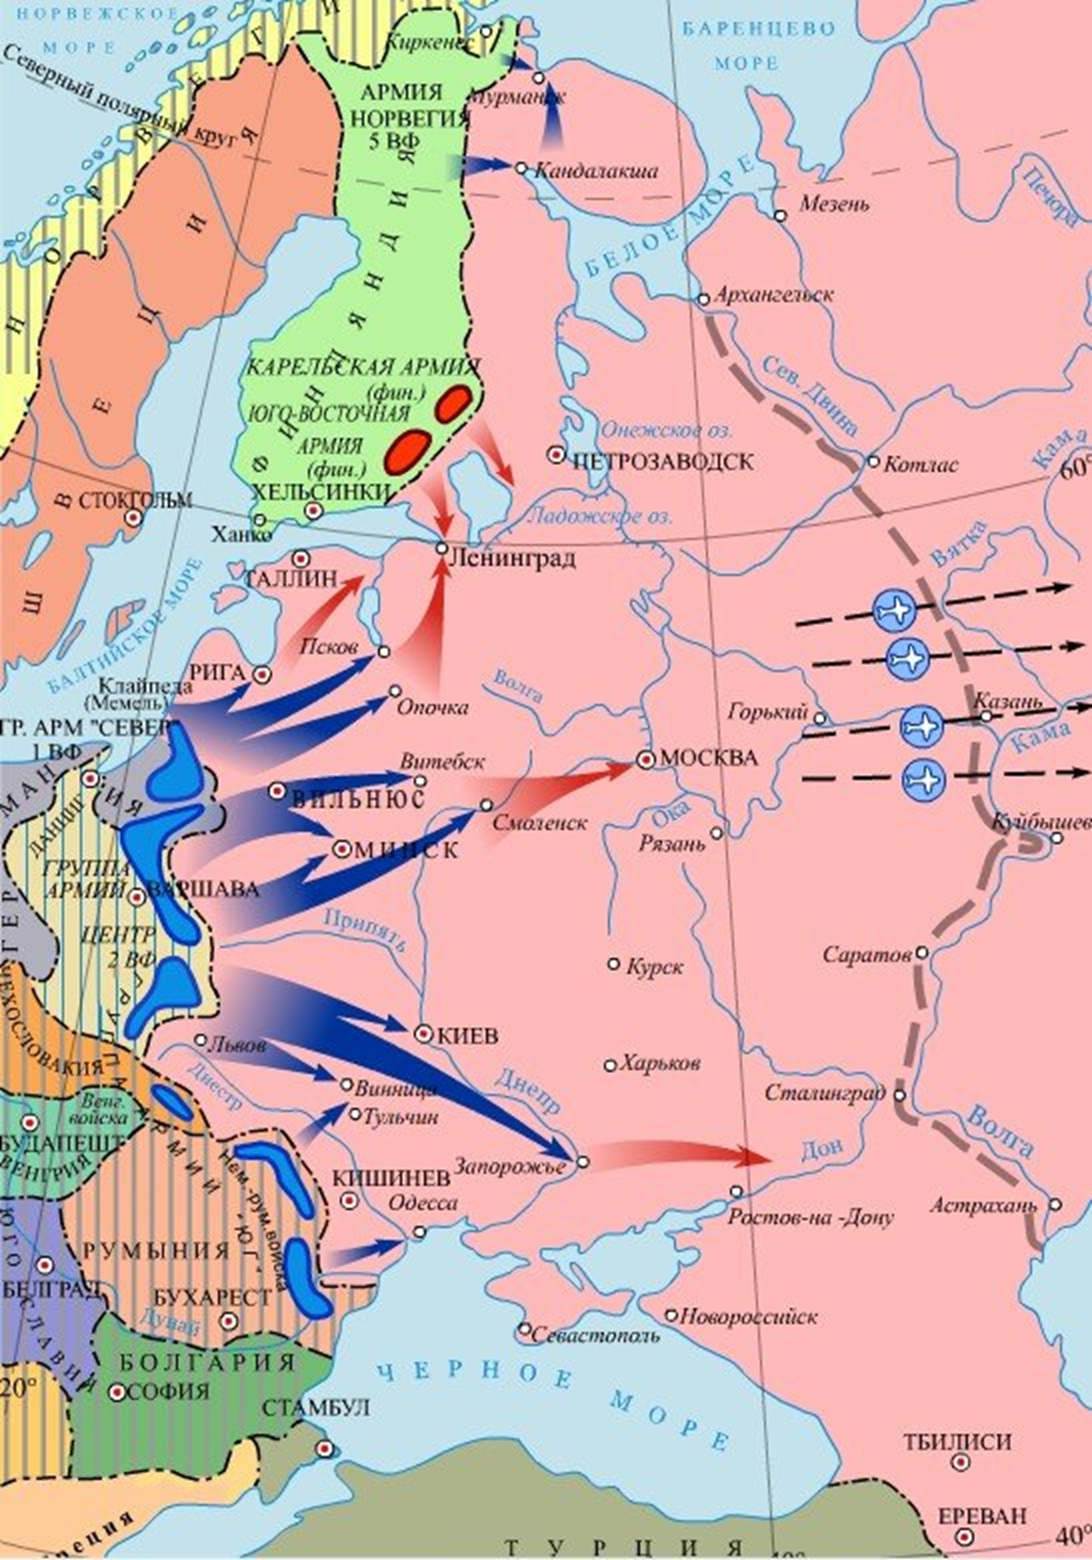
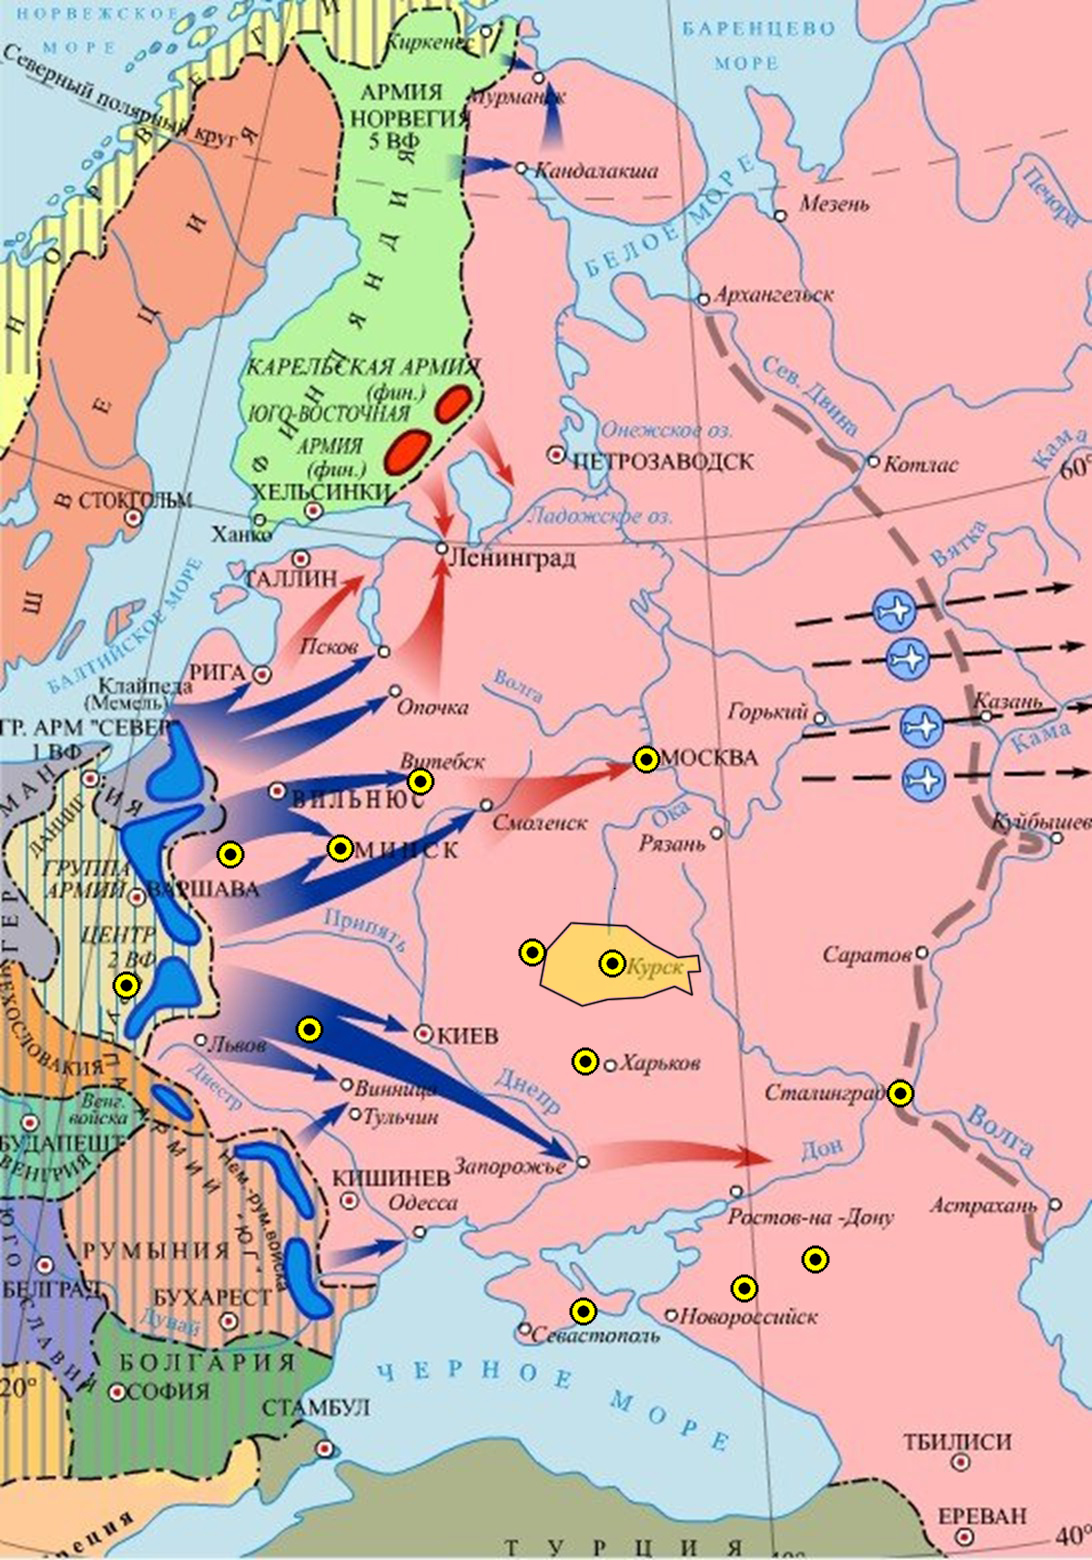
Добавлена карта мест подвигов

diff --git a/index.html b/index.html
@@ -5,36 +5,45 @@
 	<meta name="viewport" content="width=device-width, initial-scale=1">
 	<meta name="generator" content="RocketCake">
 	<title></title>
-	<link rel="stylesheet" type="text/css" href="index_html.css?h=d9c7922d">
+	<link rel="stylesheet" type="text/css" href="index_html.css?h=f30653e8">
 </head>
 <body>
 <div class="textstyle1">
 <div id="container_3e575098"><div id="container_3e575098_padding" ><div class="textstyle2"><div id="container_4f41ecfa"><div id="container_4f41ecfa_padding" ><div class="textstyle2"><span class="textstyle3">&#1044;&#1077;&#1090;&#1080; &#1074;&#1086;&#1081;&#1085;&#1099;</span><span class="textstyle4"><br/></span><span class="textstyle5">&#1048;&#1089;&#1090;&#1086;&#1088;&#1080;&#1103; &#1102;&#1085;&#1099;&#1093; &#1075;&#1077;&#1088;&#1086;&#1077;&#1074;<br/><br/></span></div>
 </div></div></div>
-<div style="clear:both"></div></div></div><span class="textstyle6"><br/></span><div id="container_1f421e47"><div id="container_1f421e47_padding" ><div class="textstyle7"><span class="textstyle6"><br/></span></div>
-<div class="textstyle2"><table id="table_11a0051" cellpadding="3" cellspacing="1" >	<tr>
-		<td width="50%" height="1490px" style="vertical-align: top; overflow:hidden; ">  <div id="cell_63b62da2">
-    <div class="textstyle1">
-<img src="rc_images/mapussr.jpg" width="1092" height="1560" id="img_2386f5af" alt="" title="" />      </div>
-    </div>
-		</td>
-		<td width="50%" height="1490px" style="vertical-align: top; overflow:hidden; ">  <div id="cell_7a45e9aa">
-    <div class="textstyle7">
-<div id="container_74cc30ce"><div id="container_74cc30ce_padding" ><div class="textstyle8">      <span class="textstyle9">&#171;&#1052;&#1099; &#1085;&#1080;&#1082;&#1086;&#1075;&#1076;&#1072; &#1085;&#1077; &#1087;&#1086;&#1073;&#1077;&#1076;&#1080;&#1084; &#1088;&#1091;&#1089;&#1089;&#1082;&#1080;&#1093;, &#1087;&#1086;&#1090;&#1086;&#1084;&#1091; &#1095;&#1090;&#1086; &#1076;&#1072;&#1078;&#1077; &#1076;&#1077;&#1090;&#1080; &#1091; &#1085;&#1080;&#1093; &#1089;&#1088;&#1072;&#1078;&#1072;&#1102;&#1090;&#1089;&#1103; &#1082;&#1072;&#1082; &#1075;&#1077;&#1088;&#1086;&#1080;&#187;</span>
+<div style="clear:both"></div></div></div><span class="textstyle6"><br/></span><div id="container_1f421e47"><div id="container_1f421e47_padding" ><div class="textstyle7"><div id="container_74cc30ce"><div id="container_74cc30ce_padding" ><div class="textstyle8">  <span class="textstyle9">&#171;&#1052;&#1099; &#1085;&#1080;&#1082;&#1086;&#1075;&#1076;&#1072; &#1085;&#1077; &#1087;&#1086;&#1073;&#1077;&#1076;&#1080;&#1084; &#1088;&#1091;&#1089;&#1089;&#1082;&#1080;&#1093;, &#1087;&#1086;&#1090;&#1086;&#1084;&#1091; &#1095;&#1090;&#1086; &#1076;&#1072;&#1078;&#1077; &#1076;&#1077;&#1090;&#1080; &#1091; &#1085;&#1080;&#1093; &#1089;&#1088;&#1072;&#1078;&#1072;&#1102;&#1090;&#1089;&#1103; &#1082;&#1072;&#1082; &#1075;&#1077;&#1088;&#1086;&#1080;&#187;</span>
 </div>
-</div></div>      </div>
-    <div class="textstyle2">
-<span class="textstyle6"><br/></span>      </div>
-    <div class="textstyle7">
-<div id="container_3b77e554"><div id="container_3b77e554_padding" ><div class="textstyle7">      <span class="textstyle10">&#1047;&#1072;&#1087;&#1080;&#1089;&#1100; &#1080;&#1079; &#1076;&#1085;&#1077;&#1074;&#1085;&#1080;&#1082;&#1072; &#1085;&#1077;&#1084;&#1077;&#1094;&#1082;&#1086;&#1075;&#1086; &#1089;&#1086;&#1083;&#1076;&#1072;&#1090;&#1072;<br/></span>
+</div></div><span class="textstyle6"><br/></span><div id="container_3b77e554"><div id="container_3b77e554_padding" ><div class="textstyle7">  <span class="textstyle10">&#1047;&#1072;&#1087;&#1080;&#1089;&#1100; &#1080;&#1079; &#1076;&#1085;&#1077;&#1074;&#1085;&#1080;&#1082;&#1072; &#1085;&#1077;&#1084;&#1077;&#1094;&#1082;&#1086;&#1075;&#1086; &#1089;&#1086;&#1083;&#1076;&#1072;&#1090;&#1072;<br/></span>
 </div>
-</div></div>      </div>
-    <div class="textstyle2">
-<span class="textstyle6"><br/></span><div id="container_4cfbf672"><div id="container_4cfbf672_padding" ><div class="textstyle8">      <span class="textstyle11">&#1042;&#1086;&#1081;&#1085;&#1072;... &#1053;&#1077;&#1090; &#1085;&#1080;&#1095;&#1077;&#1075;&#1086; &#1073;&#1086;&#1083;&#1077;&#1077; &#1091;&#1078;&#1072;&#1089;&#1085;&#1086;&#1075;&#1086; &#1080; &#1073;&#1086;&#1075;&#1086;&#1087;&#1088;&#1086;&#1090;&#1080;&#1074;&#1085;&#1086;&#1075;&#1086; &#1074;&#1086; &#1074;&#1089;&#1077;&#1084; &#1084;&#1080;&#1088;&#1077;, &#1095;&#1077;&#1084; &#1074;&#1086;&#1081;&#1085;&#1072; - &#1078;&#1077;&#1089;&#1090;&#1086;&#1082;&#1086;&#1077;, &#1073;&#1077;&#1089;&#1095;&#1077;&#1083;&#1086;&#1074;&#1077;&#1095;&#1085;&#1086;&#1077; &#1103;&#1074;&#1083;&#1077;&#1085;&#1080;&#1077;, &#1082;&#1086;&#1090;&#1086;&#1088;&#1086;&#1077; &#1085;&#1077; &#1085;&#1077;&#1089;&#1077;&#1090; &#1085;&#1072;&#1088;&#1086;&#1076;&#1072;&#1084; &#1080; &#1075;&#1086;&#1089;&#1091;&#1076;&#1072;&#1088;&#1089;&#1090;&#1074;&#1072;&#1084; &#1085;&#1080;&#1082;&#1072;&#1082;&#1086;&#1081; &#1087;&#1086;&#1083;&#1100;&#1079;&#1099;, &#1072; &#1090;&#1086;&#1083;&#1100;&#1082;&#1086; &#1087;&#1088;&#1080;&#1074;&#1086;&#1076;&#1080;&#1090; &#1082; &#1086;&#1075;&#1088;&#1086;&#1084;&#1085;&#1086;&#1084;&#1091; &#1095;&#1080;&#1089;&#1083;&#1091; &#1078;&#1077;&#1088;&#1090;&#1074;. &#1058;&#1099; &#1087;&#1086;&#1085;&#1080;&#1084;&#1072;&#1077;&#1096;&#1100; &#1101;&#1090;&#1086; &#1086;&#1089;&#1086;&#1073;&#1077;&#1085;&#1085;&#1086; &#1089;&#1080;&#1083;&#1100;&#1085;&#1086;, &#1082;&#1086;&#1075;&#1076;&#1072; &#1085;&#1072;&#1095;&#1080;&#1085;&#1072;&#1077;&#1096;&#1100; &#1074;&#1089;&#1087;&#1086;&#1084;&#1080;&#1085;&#1072;&#1090;&#1100; &#1090;&#1072;&#1082; &#1085;&#1072;&#1079;&#1099;&#1074;&#1072;&#1077;&#1084;&#1099;&#1093; &quot;&#1076;&#1077;&#1090;&#1077;&#1081; &#1074;&#1086;&#1081;&#1085;&#1099; &quot; -- &#1086;&#1073;&#1099;&#1095;&#1085;&#1099;&#1093; &#1084;&#1072;&#1083;&#1100;&#1095;&#1080;&#1082;&#1086;&#1074; &#1080; &#1076;&#1077;&#1074;&#1086;&#1095;&#1077;&#1082; &#1089;&#1086;&#1088;&#1086;&#1082;&#1086;&#1074;&#1099;&#1093;-&#1087;&#1103;&#1090;&#1080;&#1076;&#1077;&#1089;&#1103;&#1090;&#1099;&#1093; &#1075;&#1086;&#1076;&#1086;&#1074; &#1087;&#1088;&#1086;&#1096;&#1083;&#1086;&#1075;&#1086; &#1074;&#1077;&#1082;&#1072;, &#1082;&#1086;&#1090;&#1086;&#1088;&#1099;&#1084; &#1087;&#1088;&#1080;&#1096;&#1083;&#1086;&#1089;&#1100; &#1089;&#1090;&#1072;&#1090;&#1100; &#1079;&#1072;&#1097;&#1080;&#1090;&#1085;&#1080;&#1082;&#1072;&#1084;&#1080; &#1056;&#1086;&#1076;&#1080;&#1085;&#1099;. &#1069;&#1090;&#1080; &#1093;&#1088;&#1072;&#1073;&#1099;&#1088;&#1077; &#1080; &#1084;&#1091;&#1078;&#1077;&#1089;&#1090;&#1074;&#1077;&#1085;&#1085;&#1099;&#1077; &#1088;&#1077;&#1073;&#1103;&#1090;&#1072; &#1089;&#1086;&#1074;&#1077;&#1088;&#1096;&#1072;&#1083;&#1080; &#1090;&#1072;&#1082;&#1080;&#1077; &#1087;&#1086;&#1076;&#1074;&#1080;&#1075;&#1080;, &#1084;&#1091;&#1078;&#1077;&#1089;&#1090;&#1074;&#1072; &#1085;&#1072; &#1082;&#1086;&#1090;&#1086;&#1088;&#1099;&#1093; &#1085;&#1077; &#1093;&#1074;&#1072;&#1090;&#1080;&#1083;&#1086; &#1073;&#1099; &#1086;&#1090;&#1074;&#1072;&#1075;&#1080; &#1091; &#1084;&#1085;&#1086;&#1075;&#1080;&#1093; &#1074;&#1079;&#1088;&#1086;&#1089;&#1083;&#1099;&#1093; &#1084;&#1091;&#1078;&#1095;&#1080;&#1085; &#1080; &#1078;&#1077;&#1085;&#1097;&#1080;&#1085;. &#1057;&#1072;&#1084; &#1092;&#1072;&#1082;&#1090;, &#1095;&#1090;&#1086; &#1084;&#1072;&#1083;&#1077;&#1085;&#1100;&#1082;&#1080;&#1077; &#1076;&#1077;&#1090;&#1080; &#1076;&#1086;&#1073;&#1088;&#1086;&#1074;&#1086;&#1083;&#1100;&#1085;&#1086; &#1089;&#1088;&#1072;&#1078;&#1072;&#1083;&#1080;&#1089;&#1100; &#1073;&#1086;&#1082; &#1086; &#1073;&#1086;&#1082; &#1089; &#1087;&#1072;&#1088;&#1090;&#1080;&#1079;&#1072;&#1085;&#1072;&#1084;&#1080; &#1080; &#1073;&#1086;&#1081;&#1094;&#1072;&#1084;&#1080; &#1050;&#1088;&#1072;&#1089;&#1085;&#1086;&#1081; &#1040;&#1088;&#1084;&#1080;&#1080; &#1091;&#1078;&#1077; &#1079;&#1072;&#1089;&#1083;&#1091;&#1078;&#1080;&#1074;&#1072;&#1077;&#1090; &#1091;&#1074;&#1072;&#1078;&#1077;&#1085;&#1080;&#1103; &#1082; &#1090;&#1077;&#1084; &#1073;&#1077;&#1089;&#1089;&#1090;&#1088;&#1072;&#1096;&#1085;&#1099;&#1093; &#1102;&#1085;&#1099;&#1084; &#1073;&#1086;&#1081;&#1094;&#1072;&#1084;, &#1095;&#1090;&#1086; &#1078;&#1077;&#1088;&#1090;&#1074;&#1086;&#1074;&#1072;&#1083;&#1080; &#1079;&#1076;&#1086;&#1088;&#1086;&#1074;&#1100;&#1077;&#1084; &#1080; &#1089;&#1072;&#1084;&#1086;&#1081; &#1078;&#1080;&#1079;&#1085;&#1100;&#1102; &#1088;&#1072;&#1076;&#1080; &#1074;&#1077;&#1083;&#1080;&#1082;&#1086;&#1081; &#1094;&#1077;&#1083;&#1080; - &#1073;&#1086;&#1088;&#1100;&#1073;&#1099; &#1089; &#1092;&#1072;&#1096;&#1080;&#1079;&#1084;&#1086;&#1084; &#1080; &#1086;&#1089;&#1074;&#1086;&#1073;&#1086;&#1078;&#1076;&#1077;&#1085;&#1080;&#1103; &#1089;&#1074;&#1086;&#1077;&#1081; &#1088;&#1086;&#1076;&#1085;&#1086;&#1081; &#1079;&#1077;&#1084;&#1083;&#1080;.<br/></span>
+</div></div><span class="textstyle6"><br/></span></div>
+<div class="textstyle2"><div id="container_4cfbf672"><div id="container_4cfbf672_padding" ><div class="textstyle8">  <span class="textstyle11">&#1042;&#1086;&#1081;&#1085;&#1072;... &#1053;&#1077;&#1090; &#1085;&#1080;&#1095;&#1077;&#1075;&#1086; &#1073;&#1086;&#1083;&#1077;&#1077; &#1091;&#1078;&#1072;&#1089;&#1085;&#1086;&#1075;&#1086; &#1080; &#1073;&#1086;&#1075;&#1086;&#1087;&#1088;&#1086;&#1090;&#1080;&#1074;&#1085;&#1086;&#1075;&#1086; &#1074;&#1086; &#1074;&#1089;&#1077;&#1084; &#1084;&#1080;&#1088;&#1077;, &#1095;&#1077;&#1084; &#1074;&#1086;&#1081;&#1085;&#1072; - &#1078;&#1077;&#1089;&#1090;&#1086;&#1082;&#1086;&#1077;, &#1073;&#1077;&#1089;&#1095;&#1077;&#1083;&#1086;&#1074;&#1077;&#1095;&#1085;&#1086;&#1077; &#1103;&#1074;&#1083;&#1077;&#1085;&#1080;&#1077;, &#1082;&#1086;&#1090;&#1086;&#1088;&#1086;&#1077; &#1085;&#1077; &#1085;&#1077;&#1089;&#1077;&#1090; &#1085;&#1072;&#1088;&#1086;&#1076;&#1072;&#1084; &#1080; &#1075;&#1086;&#1089;&#1091;&#1076;&#1072;&#1088;&#1089;&#1090;&#1074;&#1072;&#1084; &#1085;&#1080;&#1082;&#1072;&#1082;&#1086;&#1081; &#1087;&#1086;&#1083;&#1100;&#1079;&#1099;, &#1072; &#1090;&#1086;&#1083;&#1100;&#1082;&#1086; &#1087;&#1088;&#1080;&#1074;&#1086;&#1076;&#1080;&#1090; &#1082; &#1086;&#1075;&#1088;&#1086;&#1084;&#1085;&#1086;&#1084;&#1091; &#1095;&#1080;&#1089;&#1083;&#1091; &#1078;&#1077;&#1088;&#1090;&#1074;. &#1058;&#1099; &#1087;&#1086;&#1085;&#1080;&#1084;&#1072;&#1077;&#1096;&#1100; &#1101;&#1090;&#1086; &#1086;&#1089;&#1086;&#1073;&#1077;&#1085;&#1085;&#1086; &#1089;&#1080;&#1083;&#1100;&#1085;&#1086;, &#1082;&#1086;&#1075;&#1076;&#1072; &#1085;&#1072;&#1095;&#1080;&#1085;&#1072;&#1077;&#1096;&#1100; &#1074;&#1089;&#1087;&#1086;&#1084;&#1080;&#1085;&#1072;&#1090;&#1100; &#1090;&#1072;&#1082; &#1085;&#1072;&#1079;&#1099;&#1074;&#1072;&#1077;&#1084;&#1099;&#1093; &quot;&#1076;&#1077;&#1090;&#1077;&#1081; &#1074;&#1086;&#1081;&#1085;&#1099; &quot; -- &#1086;&#1073;&#1099;&#1095;&#1085;&#1099;&#1093; &#1084;&#1072;&#1083;&#1100;&#1095;&#1080;&#1082;&#1086;&#1074; &#1080; &#1076;&#1077;&#1074;&#1086;&#1095;&#1077;&#1082; &#1089;&#1086;&#1088;&#1086;&#1082;&#1086;&#1074;&#1099;&#1093;-&#1087;&#1103;&#1090;&#1080;&#1076;&#1077;&#1089;&#1103;&#1090;&#1099;&#1093; &#1075;&#1086;&#1076;&#1086;&#1074; &#1087;&#1088;&#1086;&#1096;&#1083;&#1086;&#1075;&#1086; &#1074;&#1077;&#1082;&#1072;, &#1082;&#1086;&#1090;&#1086;&#1088;&#1099;&#1084; &#1087;&#1088;&#1080;&#1096;&#1083;&#1086;&#1089;&#1100; &#1089;&#1090;&#1072;&#1090;&#1100; &#1079;&#1072;&#1097;&#1080;&#1090;&#1085;&#1080;&#1082;&#1072;&#1084;&#1080; &#1056;&#1086;&#1076;&#1080;&#1085;&#1099;. &#1069;&#1090;&#1080; &#1093;&#1088;&#1072;&#1073;&#1099;&#1088;&#1077; &#1080; &#1084;&#1091;&#1078;&#1077;&#1089;&#1090;&#1074;&#1077;&#1085;&#1085;&#1099;&#1077; &#1088;&#1077;&#1073;&#1103;&#1090;&#1072; &#1089;&#1086;&#1074;&#1077;&#1088;&#1096;&#1072;&#1083;&#1080; &#1090;&#1072;&#1082;&#1080;&#1077; &#1087;&#1086;&#1076;&#1074;&#1080;&#1075;&#1080;, &#1084;&#1091;&#1078;&#1077;&#1089;&#1090;&#1074;&#1072; &#1085;&#1072; &#1082;&#1086;&#1090;&#1086;&#1088;&#1099;&#1093; &#1085;&#1077; &#1093;&#1074;&#1072;&#1090;&#1080;&#1083;&#1086; &#1073;&#1099; &#1086;&#1090;&#1074;&#1072;&#1075;&#1080; &#1091; &#1084;&#1085;&#1086;&#1075;&#1080;&#1093; &#1074;&#1079;&#1088;&#1086;&#1089;&#1083;&#1099;&#1093; &#1084;&#1091;&#1078;&#1095;&#1080;&#1085; &#1080; &#1078;&#1077;&#1085;&#1097;&#1080;&#1085;. &#1057;&#1072;&#1084; &#1092;&#1072;&#1082;&#1090;, &#1095;&#1090;&#1086; &#1084;&#1072;&#1083;&#1077;&#1085;&#1100;&#1082;&#1080;&#1077; &#1076;&#1077;&#1090;&#1080; &#1076;&#1086;&#1073;&#1088;&#1086;&#1074;&#1086;&#1083;&#1100;&#1085;&#1086; &#1089;&#1088;&#1072;&#1078;&#1072;&#1083;&#1080;&#1089;&#1100; &#1073;&#1086;&#1082; &#1086; &#1073;&#1086;&#1082; &#1089; &#1087;&#1072;&#1088;&#1090;&#1080;&#1079;&#1072;&#1085;&#1072;&#1084;&#1080; &#1080; &#1073;&#1086;&#1081;&#1094;&#1072;&#1084;&#1080; &#1050;&#1088;&#1072;&#1089;&#1085;&#1086;&#1081; &#1040;&#1088;&#1084;&#1080;&#1080; &#1091;&#1078;&#1077; &#1079;&#1072;&#1089;&#1083;&#1091;&#1078;&#1080;&#1074;&#1072;&#1077;&#1090; &#1091;&#1074;&#1072;&#1078;&#1077;&#1085;&#1080;&#1103; &#1082; &#1090;&#1077;&#1084; &#1073;&#1077;&#1089;&#1089;&#1090;&#1088;&#1072;&#1096;&#1085;&#1099;&#1093; &#1102;&#1085;&#1099;&#1084; &#1073;&#1086;&#1081;&#1094;&#1072;&#1084;, &#1095;&#1090;&#1086; &#1078;&#1077;&#1088;&#1090;&#1074;&#1086;&#1074;&#1072;&#1083;&#1080; &#1079;&#1076;&#1086;&#1088;&#1086;&#1074;&#1100;&#1077;&#1084; &#1080; &#1089;&#1072;&#1084;&#1086;&#1081; &#1078;&#1080;&#1079;&#1085;&#1100;&#1102; &#1088;&#1072;&#1076;&#1080; &#1074;&#1077;&#1083;&#1080;&#1082;&#1086;&#1081; &#1094;&#1077;&#1083;&#1080; - &#1073;&#1086;&#1088;&#1100;&#1073;&#1099; &#1089; &#1092;&#1072;&#1096;&#1080;&#1079;&#1084;&#1086;&#1084; &#1080; &#1086;&#1089;&#1074;&#1086;&#1073;&#1086;&#1078;&#1076;&#1077;&#1085;&#1080;&#1103; &#1089;&#1074;&#1086;&#1077;&#1081; &#1088;&#1086;&#1076;&#1085;&#1086;&#1081; &#1079;&#1077;&#1084;&#1083;&#1080;.<br/></span>
 </div>
-</div></div><span class="textstyle6"><br/><br/></span><div id="container_5616e585"><div id="container_5616e585_padding" ><div class="textstyle8">      <span class="textstyle11">&#1055;&#1086;&#1084;&#1085;&#1080;&#1090;&#1077;, &#1083;&#1102;&#1076;&#1080;. &#1055;&#1086;&#1084;&#1085;&#1080;&#1090;&#1077; &#1085;&#1072;&#1089;&#1083;&#1077;&#1076;&#1080;&#1077; &#1089;&#1074;&#1086;&#1080;&#1093; &#1075;&#1077;&#1088;&#1086;&#1077;&#1074;!<br/></span>
+</div></div></div>
+<div class="textstyle7"><span class="textstyle6"><br/></span></div>
+<div class="textstyle2"><div id="container_5616e585"><div id="container_5616e585_padding" ><div class="textstyle8">  <span class="textstyle11">&#1055;&#1086;&#1084;&#1085;&#1080;&#1090;&#1077;, &#1083;&#1102;&#1076;&#1080;. &#1055;&#1086;&#1084;&#1085;&#1080;&#1090;&#1077; &#1085;&#1072;&#1089;&#1083;&#1077;&#1076;&#1080;&#1077; &#1089;&#1074;&#1086;&#1080;&#1093; &#1075;&#1077;&#1088;&#1086;&#1077;&#1074;!<br/></span>
 </div>
-</div></div><span class="textstyle6"><br/><br/></span><div id="container_316d5227"><div id="container_316d5227_padding" ><div class="textstyle2"><ul id="ul_5bd5f3a7" class="ulstyle1">
+</div></div></div>
+<div class="textstyle7"><span class="textstyle6"><br/></span></div>
+<div class="textstyle1">
+	<img src="rc_images/mapussr.jpg" width="1092" height="1560" id="img_2386f5af" alt="" title="" usemap="#image-map"/>
+	<map name="image-map">
+		<area alt="Надежда Богданова (г. Витебск)" title="Надежда Богданова (г. Витебск)" href="page-1.html" coords="421,781,13" shape="circle">
+		<area alt="Джемми Горячкина (станица Новоалександровская)" title="Джемми Горячкина (станица Новоалександровская)" href="page-2.html" coords="816,1259,13" shape="circle">
+		<area alt="Сергей Алешков (г. Сталинград)" title="Сергей Алешков (г. Сталинград)" href="page-3.html" coords="900,1093,13" shape="circle">
+		<area alt="Павлик Андреев (г. Москва)" title="Павлик Андреев (г. Москва)" href="page-4.html" coords="647,759,13" shape="circle">
+		<area alt="Миша Гаврилов (г. Гродно)" title="Миша Гаврилов (г. Гродно)" href="page-5.html" coords="230,854,14" shape="circle">
+		<area alt="Ваня Васильченко (село Александровка)" title="Ваня Васильченко (село Александровка)" href="page-6.html" coords="586,1061,13" shape="circle">
+		<area alt="Костя Янин (село Чуйковка)" title="Костя Янин (село Чуйковка)" href="page-7.html" coords="533,952,13" shape="circle">
+		<area alt="Валя Котик (г. Изяслав)" title="Валя Котик (г. Изяслав)" href="page-8.html" coords="310,1029,14" shape="circle">
+		<area alt="Люся Герасименко (г. Минск)" title="Люся Герасименко (г. Минск)" href="page-9.html" coords="341,848,14" shape="circle">
+		<area alt="Аня Обухова (село в Курской области)" title="Аня Обухова (село в Курской области)" href="page-10.html" coords="542,984,548,946,570,923,628,925,656,946,677,956,698,955,700,971,688,972,692,994,675,987,645,998,609,1000,582,1006" shape="poly">
+		<area alt="Абрам Пинкензон (станица Усть-Лабинская)" title="Абрам Пинкензон (станица Усть-Лабинская)" href="page-11.html" coords="745,1289,12" shape="circle">
+		<area alt="Виктор Коробков (г. Феодосия)" title="Виктор Коробков (г. Феодосия)" href="page-12.html" coords="583,1311,13" shape="circle">
+		<area alt="Василий Курка (г. Климонтув, Польша)" title="Василий Курка (г. Климонтув, Польша)" href="page-13.html" coords="127,986,13" shape="circle">
+	</map>
+</div>
+<div class="textstyle7"><span class="textstyle6"><br/></span></div>
+<div class="textstyle2"><div id="container_316d5227"><div id="container_316d5227_padding" ><div class="textstyle2"><ul id="ul_5bd5f3a7" class="ulstyle1">
 <li><span class="textstyle12"><a href="page-1.html">&#1053;&#1072;&#1076;&#1077;&#1078;&#1076;&#1072; &#1041;&#1086;&#1075;&#1076;&#1072;&#1085;&#1086;&#1074;&#1072;</a></span><span class="textstyle12"></span></li>
 <li><span class="textstyle12"><a href="page-2.html">&#1044;&#1078;&#1077;&#1084;&#1084;&#1080; &#1043;&#1086;&#1088;&#1103;&#1095;&#1082;&#1080;&#1085;&#1072;</a></span><span class="textstyle12"></span></li>
 <li><span class="textstyle12"><a href="page-3.html">&#1057;&#1077;&#1088;&#1075;&#1077;&#1081; &#1040;&#1083;&#1077;&#1096;&#1082;&#1086;&#1074;</a></span><span class="textstyle12"></span></li>
@@ -50,11 +59,7 @@
 <li><span class="textstyle12"><a href="page-13.html">&#1042;&#1072;&#1089;&#1080;&#1083;&#1080;&#1081; &#1050;&#1091;&#1088;&#1082;&#1072;</a></span></div>
 </li>
 </ul>
-</div></div><span class="textstyle6"><br/><br/></span>      </div>
-    </div>
-		</td>
-	</tr>
-</table><span class="textstyle6"><br/><br/></span></div>
-<div style="clear:both"></div></div></div><span class="textstyle6"><br/></span><span class="textstyle6"><br/></span>  </div>
+</div></div></div>
+<div style="clear:both"></div></div></div><span class="textstyle6"><br/><br/></span>  </div>
 </body>
 </html>

diff --git a/index_html.css b/index_html.css
@@ -2,8 +2,6 @@ a { color:#5D5D9E; }
 a:visited { color:#5D5D9E; } 
 a:active { color:#5C615E; } 
 a:hover { color:#B2B3B4; } 
-#table_11a0051 th { border: 0px solid #8C8C8C;  } 
-#table_11a0051 td { border: 0px solid #8C8C8C;  } 
 body { background-color:#232C0E; padding:0;  margin: 0; }
 .textstyle1 { text-align:center; }
 #container_3e575098 { vertical-align: top; position:relative; display: inline-block; width:100%; min-height:380px; max-width:1200px; background-color:#FFFFFF; background-image: url(rc_images/header.png); background-position:center left; background-size:cover;  }
@@ -18,10 +16,6 @@ body { background-color:#232C0E; padding:0;  margin: 0; }
 #container_1f421e47 { vertical-align: top; position:relative; display: inline-block; width:100%; min-height:150px; max-width:1200px; background-color:#FFFFFF;  }
 #container_1f421e47_padding { margin: 10px; display: block;  }
 .textstyle7 { text-align:right; }
-#table_11a0051 { box-sizing: border-box; vertical-align: bottom; position:relative; display: inline-table; width:100%; background:none; border: 0px solid #8C8C8C; table-layout: fixed;  }
-#cell_63b62da2 {  }
-#img_2386f5af { vertical-align: bottom; position:relative; display: inline-block; width:100%; background:none; height:auto;  }
-#cell_7a45e9aa {  }
 #container_74cc30ce { vertical-align: top; position:relative; display: inline-block; margin:0px 10px 0px 10px;width:50%; background:none;  }
 #container_74cc30ce_padding { margin: 10px 25px 10px 25px;display: block;  }
 .textstyle8 { text-align:justify; }
@@ -34,6 +28,7 @@ body { background-color:#232C0E; padding:0;  margin: 0; }
 .textstyle11 { font-size:13pt; font-family:Arial, Helvetica, sans-serif; color:#000000;  }
 #container_5616e585 { vertical-align: top; position:relative; display: inline-block; width:100%; background:none;  }
 #container_5616e585_padding { margin: 10px; display: block;  }
+#img_2386f5af { vertical-align: bottom; position:relative; display: inline-block; width:1092px; background:none; height:auto;  }
 #container_316d5227 { vertical-align: top; position:relative; display: inline-block; width:100%; min-height:150px; background:none;  }
 #container_316d5227_padding { margin: 10px; display: block;  }
 .ulstyle1 { margin:0; font-size: 12pt; color:#5D5D9E;  }
